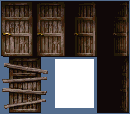
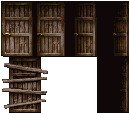
animaciones puerta y interruptor correctas

Changed region(s): [[0.0, 0.0, 1.0, 1.0]]

diff --git a/src/cInterruptor.cpp b/src/cInterruptor.cpp
@@ -14,24 +14,28 @@ cInterruptor::cInterruptor(cScene const& map, cCoordChanges const& ch, cPlayer& 
   float const p_w = 130;
   float const p_h = 21;
   mStates[STATE_CLOSED ]->getAni().setNumberOfFrames(1); //Closed
-  mStates[STATE_OPENING]->getAni().setNumberOfFrames(5); //Opening
+  mStates[STATE_OPENING]->getAni().setNumberOfFrames(4); //Opening
   mStates[STATE_OPENED ]->getAni().setNumberOfFrames(1); //Opened
 
-  mStates[STATE_CLOSED ]->getAni().setInitialFrame(Vec3(0.0f, 0.0f/p_h));
-  mStates[STATE_CLOSED ]->getAni().setFrameSize(Vec3(34.0f/p_w, 56.0f/p_h));
+  mStates[STATE_CLOSED ]->getAni().setInitialFrame(Vec3(0.0f, 1.0f));
+  mStates[STATE_CLOSED ]->getAni().setFrameSize(Vec3(22.0f/p_w, -1.0f));
 
-  mStates[STATE_OPENED ]->getAni().setInitialFrame(Vec3(26.0f/p_w, 0.0f/p_h));
-  mStates[STATE_OPENED ]->getAni().setFrameSize(Vec3(26.0f/p_w, p_h/p_h));
+  mStates[STATE_OPENED ]->getAni().setInitialFrame(Vec3(110.0f/p_w, p_h/p_h));
+  mStates[STATE_OPENED ]->getAni().setFrameSize(Vec3(22.0f/p_w, -1.0f));
 
-  mStates[STATE_OPENING]->getAni().setInitialFrame(Vec3(0.0f, 0.0f/p_h));
-  mStates[STATE_OPENING]->getAni().setFrameSize(Vec3(26.0f/p_w, p_h/p_h));
-  mStates[STATE_OPENING]->getAni().setDeltaFrame(Vec3(26.0f/p_w, p_h/p_h));
-  mStates[STATE_OPENING]->getAni().setFrameDelay(9);
+  mStates[STATE_OPENING]->getAni().setInitialFrame(Vec3(0.0f, p_h/p_h));
+  mStates[STATE_OPENING]->getAni().setFrameSize(Vec3(22.0f/p_w, -1.0f));
+  mStates[STATE_OPENING]->getAni().setDeltaFrame(Vec3(26.5f/p_w, 0.0f));
+  
+  mStates[STATE_OPENING]->getAni().setRepeat(cAni::AnimationType::SINGLE);
+  mStates[STATE_OPENING]->setNextOnAnimationFinished(&*mStates[STATE_OPENED]);
+  mStates[STATE_OPENED ]->getAni().setRepeat(cAni::AnimationType::SINGLE);
+  mStates[STATE_CLOSED ]->getAni().setRepeat(cAni::AnimationType::SINGLE);
 }
 cInterruptor::~cInterruptor(){}
 
 void cInterruptor::Draw(float const t, float const dt) const {
-  cFrame const fr = mActualState->getAni().Generate(t);
+  cFrame const fr = mActualState->getFrame(t);
 
   DrawRect(fr, mCoordChange.WorldToScreen(posW));
 }
@@ -45,6 +49,7 @@ void cInterruptor::doLogic(float const t, float const dt) {
     if(mPlayer.GetBBox().collides(this->GetBBox())) {
       mPuerta.activate();
       mActive=false;
+      this->SetState(&*mStates[STATE_OPENING]);
       std::cout << "switch activated!" << std::endl;
     }
   }

diff --git a/src/cPuerta.cpp b/src/cPuerta.cpp
@@ -16,16 +16,16 @@ cPuerta::cPuerta(cScene const& map, cCoordChanges const& ch, cPlayer& player) : 
   mStates[STATE_OPENING]->getAni().setNumberOfFrames(4); //Opening
   mStates[STATE_OPENED ]->getAni().setNumberOfFrames(1); //Opened
 
-  mStates[STATE_CLOSED ]->getAni().setInitialFrame(Vec3(0.0f, 0.0f/p_h));
-  mStates[STATE_CLOSED ]->getAni().setFrameSize(Vec3(34.0f/p_w, 56.0f/p_h));
+  mStates[STATE_CLOSED ]->getAni().setInitialFrame(Vec3(0.0f, 56.0f/p_h));
+  mStates[STATE_CLOSED ]->getAni().setFrameSize(Vec3(32.0f/p_w, -56.0f/p_h));
 
-  mStates[STATE_OPENED ]->getAni().setInitialFrame(Vec3(34.0f/p_w, (p_h-1.0f)/p_h));
-  mStates[STATE_OPENED ]->getAni().setFrameSize(Vec3(34.0f/p_w, 56.0f/p_h));
+  mStates[STATE_OPENED ]->getAni().setInitialFrame(Vec3(97.0f/p_w, 1.0f));
+  mStates[STATE_OPENED ]->getAni().setFrameSize(Vec3(32.0f/p_w, -56.0f/p_h));
 
   mStates[STATE_OPENING]->getAni().setInitialFrame(Vec3(0.0f, 56.0f/p_h));
-  mStates[STATE_OPENING]->getAni().setFrameSize(Vec3(34.0f/p_w, 56.0f/p_h));
-  mStates[STATE_OPENING]->getAni().setDeltaFrame(Vec3(34.0f/p_w, 56.0f/p_h));
-  mStates[STATE_OPENING]->getAni().setFrameDelay(2000000);
+  mStates[STATE_OPENING]->getAni().setFrameSize(Vec3(32.0f/p_w, -56.0f/p_h));
+  mStates[STATE_OPENING]->getAni().setDeltaFrame(Vec3(32.0f/p_w, 0.0f));
+  mStates[STATE_OPENING]->getAni().setFrameDelay(2300000);
 
   mStates[STATE_CLOSED ]->setNextOnActivate(&*mStates[STATE_OPENING]);
   mStates[STATE_OPENING]->setNextOnAnimationFinished(&*mStates[STATE_OPENED]);
@@ -37,10 +37,11 @@ cPuerta::cPuerta(cScene const& map, cCoordChanges const& ch, cPlayer& player) : 
 cPuerta::~cPuerta(){}
 
 void cPuerta::Draw(float const t, float const dt) const {
-  cFrame const fr = mActualState->getAni().Generate(t);
+  cFrame const fr = mActualState->getFrame(t);
   DrawRect(fr, mCoordChange.WorldToScreen(posW));
 }
 bool cPuerta::Init() {
+
   return mText.Load("Door.png",GL_RGBA); }
 #include <iostream>
 void cPuerta::doLogic(float const t, float const dt) {

diff --git a/src/cPlayer.cpp b/src/cPlayer.cpp
@@ -45,7 +45,7 @@ cPlayer::cPlayer(cScene const& map, cCoordChanges const& ch) : cBicho(map, ch) {
 cPlayer::~cPlayer(){}
 
 void cPlayer::Draw(float const t, float const dt) const {
-  cFrame const fr = mActualState->getAni().Generate(t);
+  cFrame const fr = mActualState->getFrame(t);
 
   DrawRect(fr, mCoordChange.WorldToScreen(posW));
   for (std::size_t i = 0; i < mAttacks.size(); ++i) {

diff --git a/src/cScene.cpp b/src/cScene.cpp
@@ -22,7 +22,7 @@ bool cScene::Init() {
 	Player.SetPosition_T(Vec3(2,1)); //Initial tile
 
   mExitDoor.Init();
-  mExitDoor.SetWidthHeight_W(32,32);
+  mExitDoor.SetWidthHeight_W(32,64);
   mInterruptor.Init();
   mInterruptor.SetWidthHeight_W(32,32);
   
